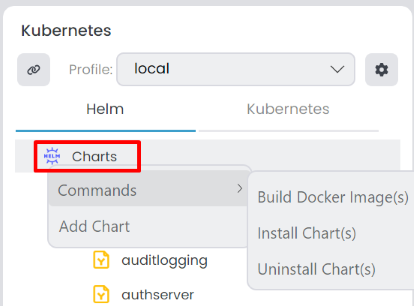
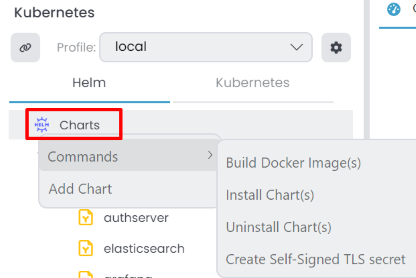
Kubernetes: Specify the User section created

diff --git a/docs/en/studio/kubernetes.md b/docs/en/studio/kubernetes.md
@@ -74,6 +74,7 @@ If you have multiple main charts, you can execute collective commands for all of
   - `Build Docker Image(s)`: If build docker images available for subcharts it builds all of them.
   - `Install Chart(s)`: Installs all charts to selected profile.
   - `Uninstall Chart(s)`: Uninstalls all charts from selected profile.
+  - `Create Self-Signed TLS secret`: It creates self-signed certificates for the applications and adds them to the Kubernetes cluster. It is useful when you [specify the user](#specify-the-user) for the application.
 - `Add Chart`: It opens the *Select Helm Chart* window. Pick the chart from the specified location and select the main helm chart to add a new main chart to the root.
 
 ### Main Chart
@@ -179,6 +180,16 @@ You can disable interception by right clicking the service and selecting *Disabl
 After you made some changes on your project, you can redeploy the chart to the Kubernetes cluster. To do that, right click the service  and select *Redeploy* from the context-menu. It builds the docker image for selected project and installs it again.
 
 ![redeploy](./images/kubernetes/redeploy.png)
+
+## Specify the User
+
+When you connect to a Kubernetes cluster, it uses the selected profile for Kubernetes *Context* and *Namespace* information. Afterwards, when you [intercept a service](#intercept-a-service), it creates some Kubernetes resources and redirects the requests to the local environment. However, if two or more developers are working on the same project, they can't intercept the same service at the same time. To solve this problem, you can specify the user. To do that, it uses the *Metadata* key-value pairs, which you can define in *Tools* -> *Global Metadata* or other levels such as *Solution Metadata* and *Kubernetes Profile Metadata*. When you define metadata named `k8ssuffix` with the desired value, it's appended to the namespace. For example, if you define the `k8ssuffix` metadata with the value `arthur`, the namespace becomes `bookstore-local-arthur`. After that, you can use the same Kubernetes profile with different users.
+
+![global-metadata](./images/kubernetes/global-metadata.png)
+
+> After defining the user, you should execute the *Create Self-Signed TLS secret* command on the [chart root](#chart-root) to create self-signed certificates for the applications and add them to the Kubernetes cluster. It's necessary to intercept the service.
+
+> When you define the metadata in the *Global Metadata*, it's available for all solutions and will not be shared with your team members. However, if you define the metadata in the *Solution Metadata* or *Kubernetes Profile Metadata*, it's available only for the current solution or Kubernetes profile and will be shared with your team members.
 
 ## Advanced Topics
 
